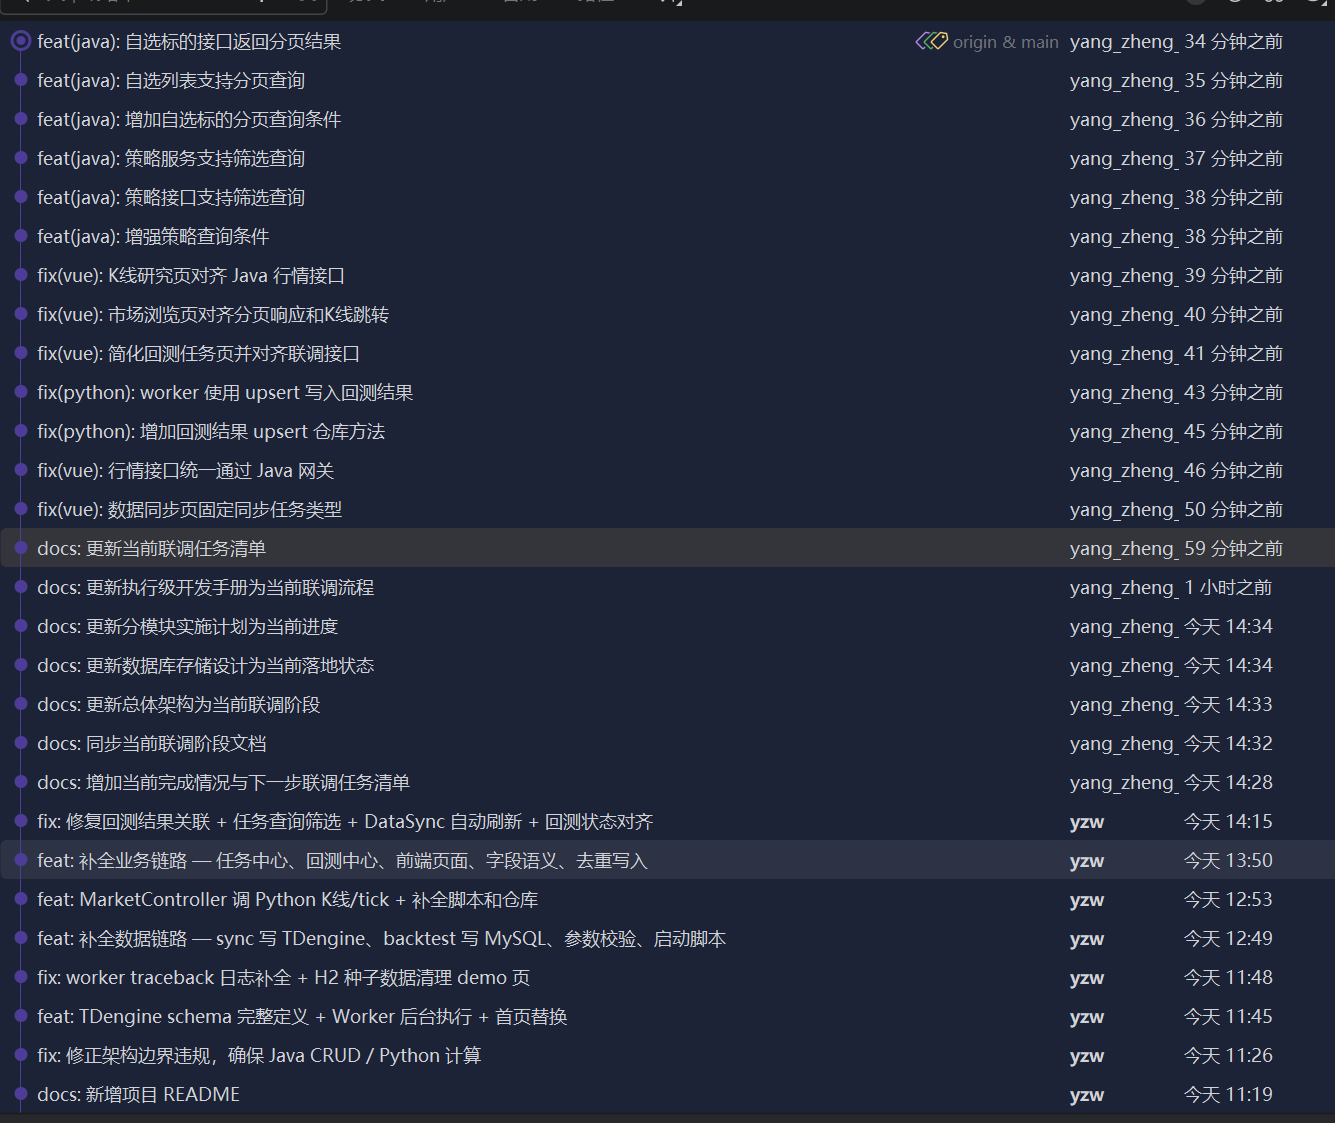
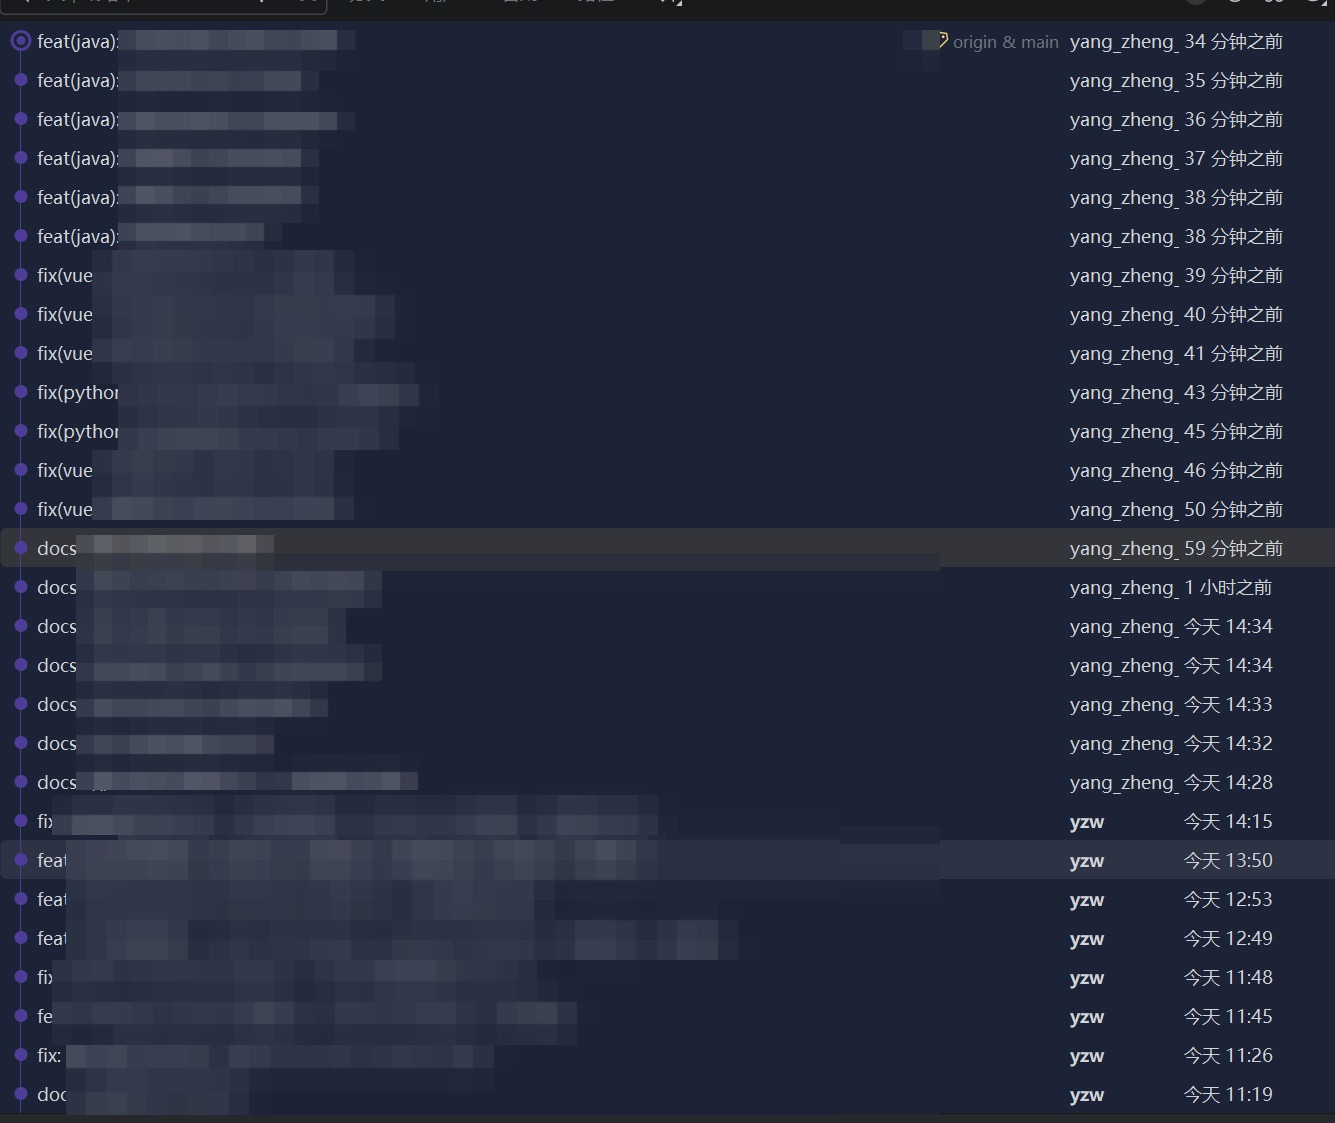
Update README screenshots and mask commit image

diff --git a/README.md b/README.md
@@ -22,9 +22,9 @@
 - 回答结束后读取最后一条 GPT 回复
 - 把用户最后提问和 GPT 最后回复发送到本地服务
 - 检测 GitHub 工具确认请求
-- 根据仓库、分支、操作、路径做白名单校验
-- 白名单通过后，可点击右下角按钮确认
-- 白名单通过后，也可按快捷键：
+- 根据仓库、操作、禁止分支、禁止路径做安全校验
+- 安全校验通过后，可点击右下角按钮确认
+- 安全校验通过后，也可按快捷键：
 
 ```text
 Alt + A
@@ -50,7 +50,7 @@ gpt-github-helper-full/
 │  ├─ page_reader.js
 │  ├─ local_api.js
 │  ├─ github_prompt.js
-│  ├─ whitelist.js
+│  ├─ safety_check.js
 │  ├─ panel.js
 │  └─ content.js
 ├─ local-server/
@@ -154,7 +154,7 @@ local-server/logs/
 
 ## GitHub 快捷确认
 
-插件默认只允许这些内容快捷确认。
+插件默认只允许指定仓库和操作类型快捷确认，同时会拦截禁止分支、禁止路径和危险词。
 
 ### 仓库
 
@@ -162,12 +162,10 @@ local-server/logs/
 wuzheng-yang/ai_gp_v2
 ```
 
-### 分支
+### 不允许操作的分支
 
 ```text
 main
-dev
-dev/auto-gpt
 ```
 
 ### 操作
@@ -177,13 +175,13 @@ Update GitHub file
 Create GitHub file
 ```
 
-### 路径
+### 不允许修改的文件夹或文件名
 
 ```text
-ai_vue/src/
-ai_api/app/
-docs/
-README.md
+.env
+node_modules/
+dist/
+build/
 ```
 
 ### 危险词
@@ -198,7 +196,7 @@ README.md
 
 ---
 
-## 修改白名单
+## 修改安全规则
 
 打开：
 
@@ -211,10 +209,12 @@ chrome-extension/config.js
 ```js
 window.GptGithubHelper.config = {
   localServerBaseUrl: 'http://127.0.0.1:18888',
-  allowedRepo: 'wuzheng-yang/ai_gp_v2',
-  allowedBranches: ['main', 'dev', 'dev/auto-gpt'],
+  allowedRepos: [
+    'wuzheng-yang/gpt-github-helper'
+  ],
+  blockedBranches: ['main'],
   allowedActions: ['Update GitHub file', 'Create GitHub file'],
-  allowedPathPrefixes: ['ai_vue/src/', 'ai_api/app/', 'docs/', 'README.md'],
+  blockedPaths: ['.env', 'node_modules/', 'dist/', 'build/'],
   dangerWords: ['.env']
 };
 ```
@@ -251,10 +251,38 @@ subprocess.Popen([
 
 ---
 
+## 截图
+
+### 插件安装与访问
+
+![打开 Chrome 扩展开发者模式](images2/开发者-插件.jpg)
+
+![访问插件](images2/访问插件.jpg)
+
+### 运行状态
+
+![GPT 指示灯](images2/gpt指示灯.jpg)
+
+![输入继续并发送](images1/输入继续-发送.png)
+
+### 示例页面
+
+![订阅页面示例](images1/pro-订阅.png)
+
+![文件测试示例](images1/mimo该文件测试.png)
+
+![本地页面示例](images2/1780904034192.jpg)
+
+### GitHub 更新示例
+
+![GitHub 更新记录示例](images2/github更新.jpg)
+
+---
+
 ## 注意
 
 1. 插件从 ChatGPT 页面 DOM 读取内容，不是官方 API。
 2. 如果 ChatGPT 页面结构变化，可能需要调整 `page_reader.js` 或 `github_prompt.js` 里的选择器。
 3. 插件不会无条件自动点击 GitHub 允许按钮。
-4. GitHub 快捷确认只会在白名单通过后可用。
+4. GitHub 快捷确认只会在安全校验通过后可用。
 5. 本地服务必须先启动，插件才能保存回复。